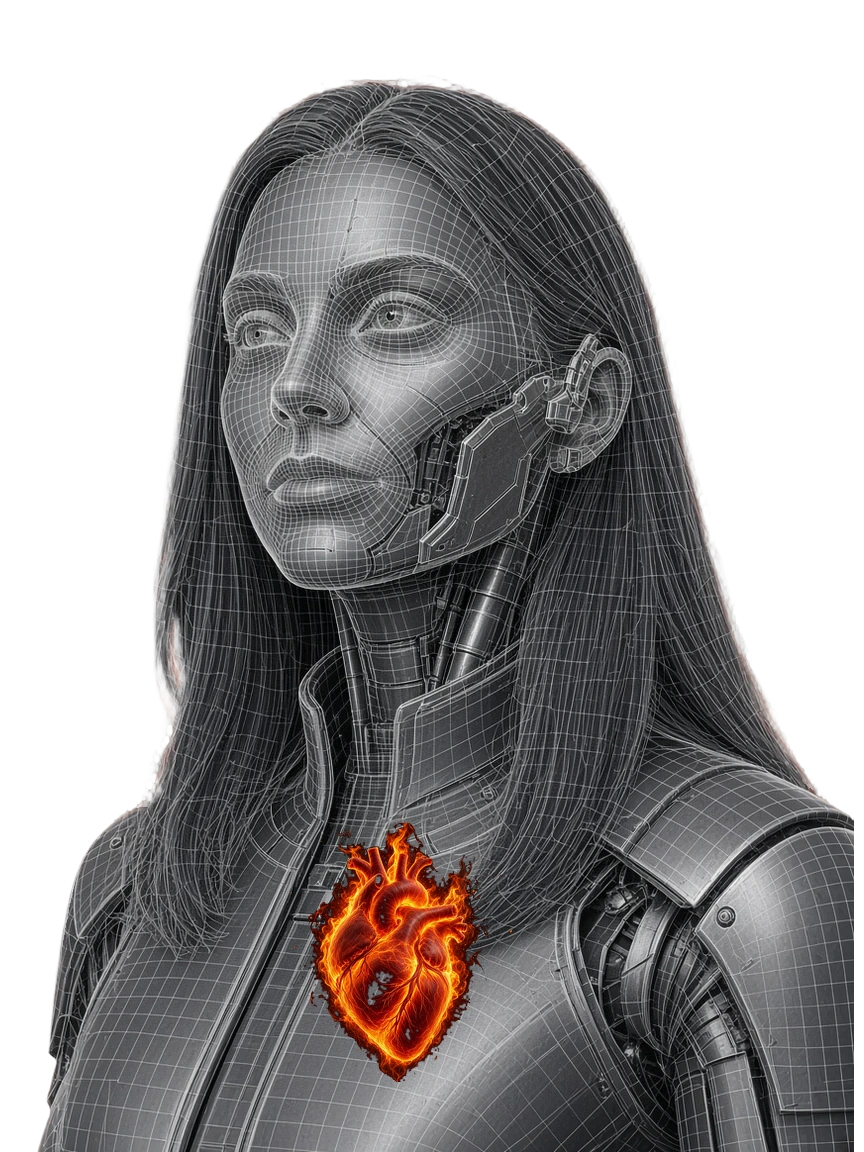
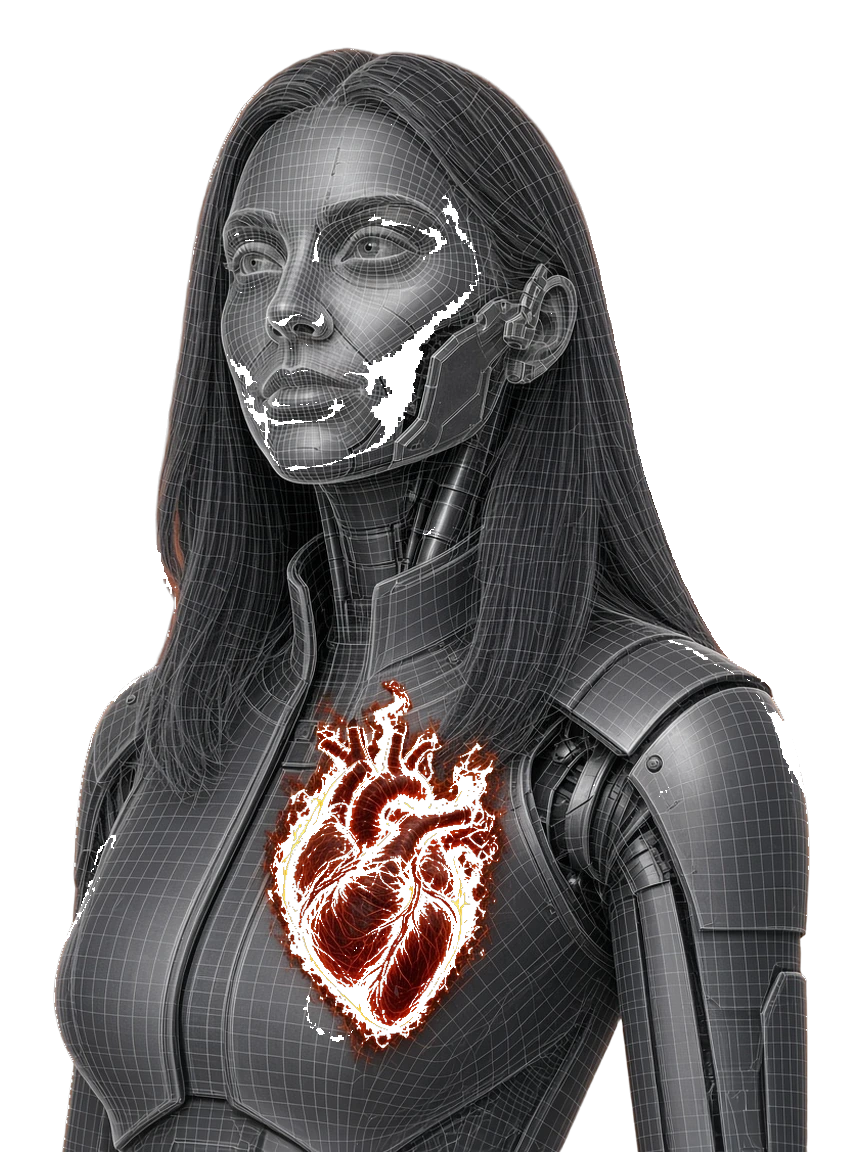
Pull the hero bust toward center and complete the cropped arm
Regenerate the bronze and steel layers as a waist-up bust so the left sleeve stays inside the frame, then center the figure in the hero board instead of pinning it to the right edge.

diff --git a/src/HeroAvatar.css b/src/HeroAvatar.css
@@ -3,7 +3,7 @@
   z-index: 1;
   display: flex;
   align-items: flex-end;
-  justify-content: flex-end;
+  justify-content: center;
   min-height: 0;
   height: 100%;
   border: 0;
@@ -33,7 +33,7 @@
   height: 100%;
   display: block;
   object-fit: contain;
-  object-position: right bottom;
+  object-position: center bottom;
   border: 0;
   outline: 0;
   background: transparent;

diff --git a/src/App.css b/src/App.css
@@ -246,7 +246,7 @@ body {
   grid-template-columns: minmax(20rem, 26rem) minmax(0, 1fr);
   gap: 1.2rem 1.2rem;
   align-items: stretch;
-  padding: 5.4rem 0 0 max(1.2rem, calc((100% - min(1200px, calc(100% - 3rem))) / 2));
+  padding: 5.4rem max(1.2rem, calc((100% - min(1200px, calc(100% - 3rem))) / 2)) 0;
 }
 
 .hero-col {
